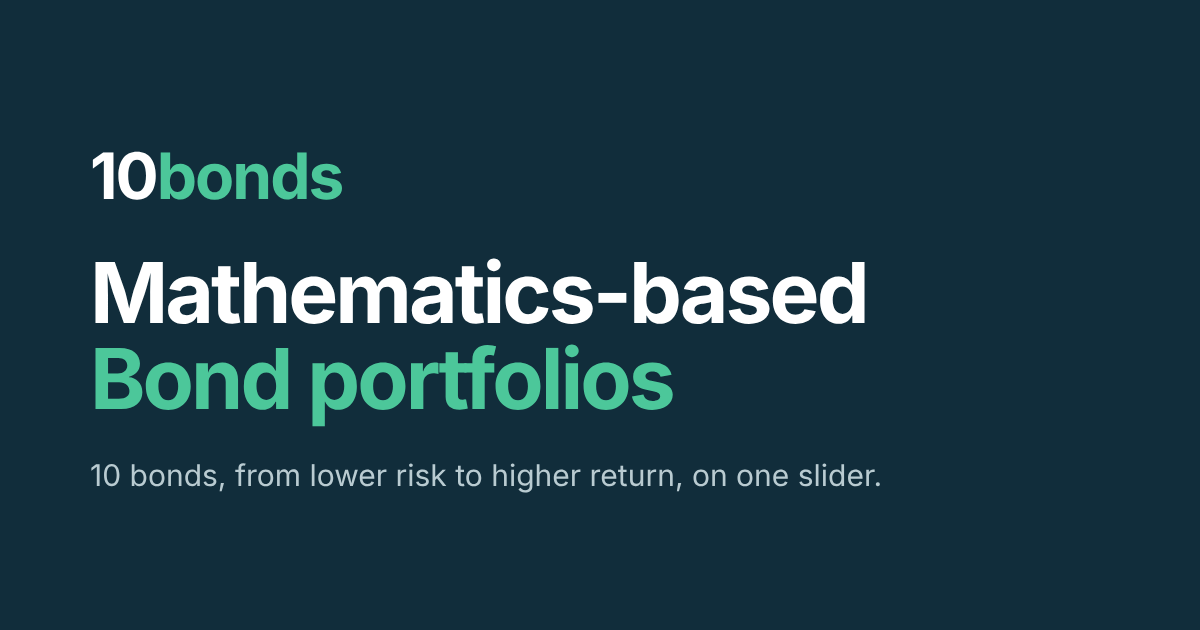
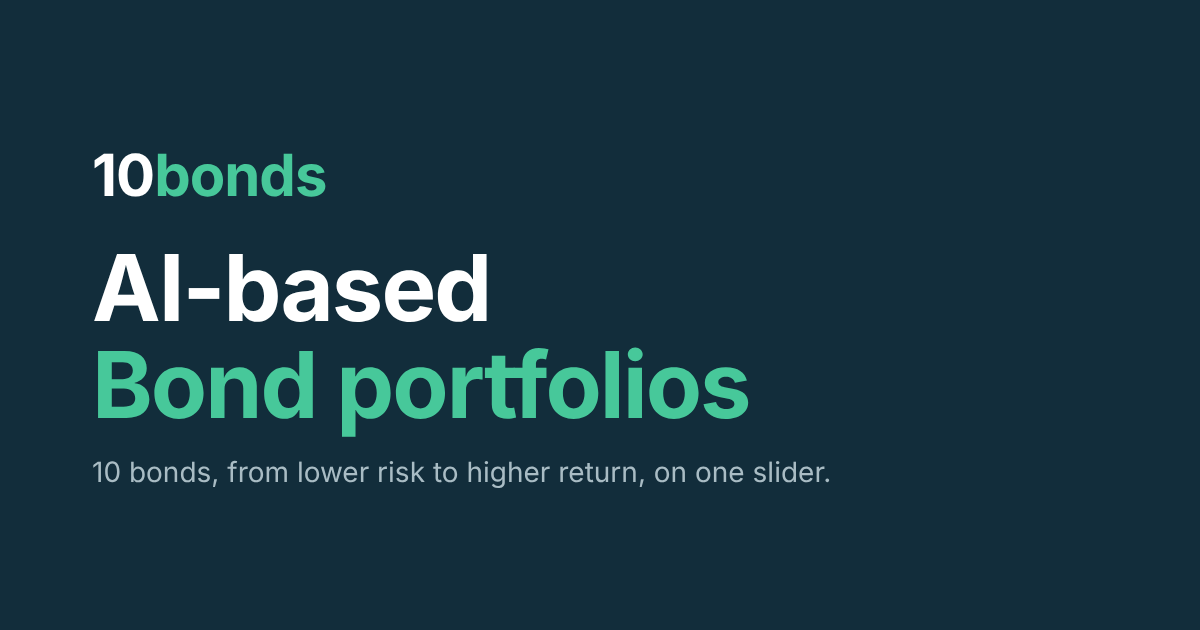
Headline back to AI-based (EN/IT/FR/DE, titles, share image); phone home page fits one screen with a test; keyboard-focusable scroll table; link check accepts the consent pop-up
Claude-Session: https://claude.ai/code/session_01TA3Ce3CrFSxgcecKeZ6A8W

diff --git a/lib/seo/pagesText.ts b/lib/seo/pagesText.ts
@@ -11,8 +11,8 @@ type Home = {
 
 export const HOME: Record<Locale, Home> = {
   it: {
-    title: "10BONDS · Portafogli obbligazionari su base matematica",
-    description: "Portafogli obbligazionari su base matematica: scegli durata e rendimento obiettivo e 10BONDS ti mostra le 10 più vicine ai tuoi criteri. Dati aggiornati ogni giorno.",
+    title: "10BONDS · Selezione di obbligazioni con l'AI",
+    description: "Selezione di obbligazioni con l'AI: scegli durata e rendimento obiettivo e 10BONDS ti mostra le 10 più vicine ai tuoi criteri. Dati aggiornati ogni giorno.",
     h1: "Confronta le obbligazioni per rendimento e rischio, in pochi secondi",
     lead: "Scegli una duration e un rendimento obiettivo: 10BONDS confronta migliaia di obbligazioni in euro, BTP e corporate, e ti mostra le 10 più vicine, una per emittente.",
     points: ["Rendimento a scadenza, duration e rischio in un'unica lista.", "BTP, titoli di Stato europei e obbligazioni societarie a confronto.", "Dati aggiornati ogni giorno, con la data sempre in vista."],
@@ -25,8 +25,8 @@ export const HOME: Record<Locale, Home> = {
     ], plansLink: "Dettagli dei piani",
   },
   fr: {
-    title: "10BONDS · Portefeuilles obligataires fondés sur les mathématiques",
-    description: "Portefeuilles obligataires fondés sur les mathématiques : choisissez un horizon et un rendement cible, 10BONDS affiche les 10 plus proches de vos critères. Données quotidiennes.",
+    title: "10BONDS · Sélection d'obligations par IA",
+    description: "Sélection d'obligations par IA : choisissez un horizon et un rendement cible, 10BONDS affiche les 10 plus proches de vos critères. Données quotidiennes.",
     h1: "Comparez les obligations selon leur rendement et leur risque",
     lead: "Choisissez une duration et un rendement cible : 10BONDS compare des milliers d'obligations en euros, OAT, emprunts d'État européens et obligations d'entreprise, et affiche les 10 plus proches, une par émetteur.",
     points: ["Rendement à l'échéance, duration et risque dans une seule liste.", "OAT, Bund, BTP et obligations d'entreprise comparés sur les mêmes critères.", "Données mises à jour chaque jour, toujours datées."],
@@ -39,8 +39,8 @@ export const HOME: Record<Locale, Home> = {
     ], plansLink: "Détail des offres",
   },
   de: {
-    title: "10BONDS · Mathematikbasierte Anleihe-Portfolios",
-    description: "Mathematikbasierte Anleihe-Portfolios: Wählen Sie Laufzeit und Zielrendite, 10BONDS zeigt die 10 Anleihen, die Ihren Kriterien am nächsten kommen. Täglich aktualisiert.",
+    title: "10BONDS · KI-gestützte Anleihenauswahl",
+    description: "KI-gestützte Anleihenauswahl: Wählen Sie Laufzeit und Zielrendite, 10BONDS zeigt die 10 Anleihen, die Ihren Kriterien am nächsten kommen. Täglich aktualisiert.",
     h1: "Finden und vergleichen Sie Anleihen nach Rendite und Risiko",
     lead: "Wählen Sie eine Duration und eine Zielrendite: 10BONDS vergleicht Tausende Euro-Anleihen, Bundesanleihen, europäische Staatsanleihen und Unternehmensanleihen, und zeigt die 10 passendsten, eine je Emittent.",
     points: ["Rendite bis Fälligkeit, Duration und Risiko in einer Liste.", "Bundesanleihen, OAT, BTP und Unternehmensanleihen nach denselben Kriterien.", "Täglich aktualisierte Daten, immer mit Datum."],

diff --git a/components/Landing.tsx b/components/Landing.tsx
@@ -61,8 +61,8 @@ export default function Landing({ lang, heading = true, onClose }: { lang: Finde
 
   // Phones: headline, card, buttons, one under the other. Desktop: headline and button on the left, card on the right.
   return (
-    <div data-testid="intro" className="landing finder-wide mx-auto max-w-[1400px] lg:max-w-none lg:!w-[min(calc(100vw_/_var(--z)_-_3rem),1320px)] text-[#132D3B] lg:flex lg:min-h-[calc(100vh_/_var(--z)_-_220px)] lg:items-center">
-      <section className="grid items-center gap-5 pt-2 lg:grid-cols-[0.9fr_1.1fr] lg:gap-x-12 lg:w-full lg:gap-y-8">
+    <div data-testid="intro" data-landing-fit className="landing finder-wide [@media(max-width:639px)]:flex [@media(max-width:639px)]:min-h-0 [@media(max-width:639px)]:flex-1 [@media(max-width:639px)]:flex-col mx-auto max-w-[1400px] lg:max-w-none lg:!w-[min(calc(100vw_/_var(--z)_-_3rem),1320px)] text-[#132D3B] lg:flex lg:min-h-[calc(100vh_/_var(--z)_-_220px)] lg:items-center">
+      <section className="grid items-center gap-5 pt-2 [@media(max-width:639px)]:flex [@media(max-width:639px)]:min-h-0 [@media(max-width:639px)]:flex-1 [@media(max-width:639px)]:flex-col [@media(max-width:639px)]:items-stretch [@media(max-width:639px)]:gap-3 lg:grid-cols-[0.9fr_1.1fr] lg:gap-x-12 lg:w-full lg:gap-y-8">
         <div className="min-w-0 break-words lg:col-start-1 lg:row-start-1 lg:self-end">
         <div className="mb-1 flex items-baseline justify-end gap-2 sm:hidden">
           {/* Phones: the paper link sits on the eyebrow line, so the page keeps its one-screen height. */}
@@ -72,9 +72,9 @@ export default function Landing({ lang, heading = true, onClose }: { lang: Finde
           <span className="block" style={{ color: NAVY }}>{t.h1a}</span>
           <span className="block" style={{ color: GREEN }}>{t.h1b}</span>
         </Title>
-        <p className="mt-2 text-[14px] leading-snug sm:text-[16px] lg:mt-4 lg:max-w-[680px] lg:text-[21px]" style={{ color: MUTE }} data-testid="landing-tagline">{t.tagline}</p>
+        <p className="mt-2 text-[14px] leading-snug [@media(max-width:639px)_and_(max-height:720px)]:hidden sm:text-[16px] lg:mt-4 lg:max-w-[680px] lg:text-[21px]" style={{ color: MUTE }} data-testid="landing-tagline">{t.tagline}</p>
         </div>
-        <div className="order-3 min-w-0 lg:order-none lg:col-start-2 lg:row-span-2 lg:row-start-1">
+        <div className="order-3 min-w-0 [@media(max-width:639px)]:flex [@media(max-width:639px)]:min-h-0 [@media(max-width:639px)]:flex-1 [@media(max-width:639px)]:flex-col lg:order-none lg:col-start-2 lg:row-span-2 lg:row-start-1">
           {/* ETF vs AI first, then one bond's curve, the reason to sign up (the owner, 24/10/2026). */}
           <LandingCarousel t={t} slides={[
             ...(showBench ? [{ key: "compare", node: LANDING_SNAPSHOT.verified ? <Comparison t={t} lang={lang} num={num} bench={bench} /> : (

diff --git a/lib/landingText.ts b/lib/landingText.ts
@@ -28,7 +28,7 @@ const en = {
   ctaBtn: "Explore the tool",
   sticky: "Open the finder",
   kicker: "Model-selected bonds",
-  h1a: "Mathematics-based",
+  h1a: "AI-based",
   h1b: "Bond portfolios",
   lead: "An illustration of how a model portfolio of 10 bonds can reach a higher modeled return than a hand-picked one, at the same duration and modeled risk.",
   cta: "Find Pareto efficient portfolio",
@@ -129,7 +129,7 @@ const it: LandingText = {
   sticky: "Apri lo strumento",
   kicker: "Obbligazioni selezionate dal modello",
   h1a: "Portafogli obbligazionari",
-  h1b: "basati sulla matematica",
+  h1b: "basati sull'AI",
   lead: "Un esempio di come un portafoglio del modello di 10 obbligazioni possa avere un rendimento stimato più alto di uno scelto a mano, a parità di durata e di rischio stimato.",
   cta: "Trova il portafoglio efficiente di Pareto",
   signUp: "Registrati",
@@ -224,7 +224,7 @@ const fr: LandingText = {
   sticky: "Ouvrir l'outil",
   kicker: "Obligations sélectionnées par le modèle",
   h1a: "Portefeuilles obligataires",
-  h1b: "fondés sur les mathématiques",
+  h1b: "basés sur l'IA",
   lead: "Une illustration : un portefeuille du modèle de 10 obligations peut atteindre un rendement modélisé plus élevé qu'un portefeuille choisi à la main, à durée et risque modélisé égaux.",
   cta: "Trouver le portefeuille efficient de Pareto",
   signUp: "S'inscrire",
@@ -318,7 +318,7 @@ const de: LandingText = {
   ctaBtn: "Das Tool entdecken",
   sticky: "Tool öffnen",
   kicker: "Vom Modell ausgewählte Anleihen",
-  h1a: "Mathematikbasierte",
+  h1a: "KI-basierte",
   h1b: "Anleihe-Portfolios",
   lead: "Zur Illustration: Ein Modell-Portfolio aus 10 Anleihen kann bei gleicher Laufzeit und gleichem Modell-Risiko mehr modellierte Rendite erzielen als ein handverlesenes.",
   cta: "Pareto-effizientes Portfolio finden",

diff --git a/app/layout.tsx b/app/layout.tsx
@@ -30,15 +30,15 @@ export const metadata: Metadata = {
   metadataBase: new URL(SITE_URL),
   // Bing Webmaster Tools site verification (the owner, 19 Oct 2026). Public by design, not a secret.
   verification: { other: { "msvalidate.01": "ADA17531835A822BB9A6870BCE68531B" } },
-  title: "10BONDS · Mathematics-based bond portfolios",
-  description: "Mathematics-based bond portfolios: pick a duration and a desired return, and 10BONDS shows 10 euro bonds that match. Data updated daily.",
+  title: "10BONDS · AI-powered bond selection",
+  description: "AI-powered bond selection: pick a duration and a desired return, and 10BONDS shows 10 euro bonds that match. Data updated daily.",
   openGraph: { images: OG_IMAGES,
-    title: "10BONDS · Mathematics-based bond portfolios",
-    description: "Mathematics-based bond portfolios: pick a duration and a desired return, and get 10 euro bonds that match.",
+    title: "10BONDS · AI-powered bond selection",
+    description: "AI-powered bond selection: pick a duration and a desired return, and get 10 euro bonds that match.",
     type: "website",
     siteName: "10BONDS",
   },
-  twitter: { card: "summary_large_image", images: ["/og.png"], title: "10BONDS · Mathematics-based bond portfolios", description: "Mathematics-based bond portfolios: pick a duration and a desired return, and get 10 euro bonds that match." },
+  twitter: { card: "summary_large_image", images: ["/og.png"], title: "10BONDS · AI-powered bond selection", description: "AI-powered bond selection: pick a duration and a desired return, and get 10 euro bonds that match." },
 };
 
 export const viewport: Viewport = { width: "device-width", initialScale: 1, themeColor: "#f5f5f7" };

diff --git a/app/globals.css b/app/globals.css
@@ -130,3 +130,20 @@ html:has(.report) body { overflow-x: clip; }
   .heat-mini [data-testid="heat-cell"] { font-size: 0 !important; }
   .heat-mini > div > div:last-child { display: none; }
 }
+
+/* Phones (the owner, 29/10/2026): the landing page fits one screen with no scrolling. The page is exactly one dynamic viewport tall,
+   the card takes whatever height is left under the headline and button. Tested at 390x844, 375x667, 414x896 (e2e/landing-fit). */
+@media (max-width: 639px) {
+  body:has([data-landing-fit]) { height: 100vh; height: 100dvh; min-height: 0; }
+  body:has([data-landing-fit]) > main { display: flex; flex: 1 1 auto; flex-direction: column; min-height: 0; padding-top: 0.25rem; padding-bottom: 0.25rem; width: 100%; }
+  body:has([data-landing-fit]) > footer { padding-top: 0.5rem; padding-bottom: 0.5rem; }
+  body:has([data-landing-fit]) [data-testid="intro-skip"] { padding-top: 0.75rem; padding-bottom: 0.75rem; }
+}
+/* Short phones (iPhone SE and the like, 667 px or less): tighter spacing so the same one screen still fits. */
+@media (max-width: 639px) and (max-height: 720px) {
+  body:has([data-landing-fit]) > main { padding-top: 0.25rem; padding-bottom: 0.25rem; }
+  body:has([data-landing-fit]) > footer { padding-top: 0.375rem; padding-bottom: 0.375rem; }
+  body:has([data-landing-fit]) [data-landing-fit] h1 { font-size: 24px !important; }
+  body:has([data-landing-fit]) [data-testid="intro-skip"] { padding-top: 0.625rem; padding-bottom: 0.625rem; }
+  body:has([data-landing-fit]) [data-testid="landing-carousel"] { min-height: 110px; }
+}

diff --git a/components/LandingCarousel.tsx b/components/LandingCarousel.tsx
@@ -17,7 +17,7 @@ export const actionTitle = ([long, short]: readonly [string, string] | string[])
 
 /** One card of the landing carousel: same white card as the comparison, filling the carousel's fixed height. */
 export function SlideCard({ title, children, href, long }: { title: ReactNode; children: ReactNode; href?: string; long?: boolean }) {
-  const box = "flex h-full flex-col rounded-[18px] border border-[#e3ebe7] bg-white p-4 shadow-[0_8px_30px_rgba(17,45,59,0.07)] lg:p-5";
+  const box = "flex h-full flex-col [@media(max-width:639px)]:overflow-hidden rounded-[18px] border border-[#e3ebe7] bg-white p-4 shadow-[0_8px_30px_rgba(17,45,59,0.07)] lg:p-5";
   // With `href` the whole card opens that page (the Risk assessment pages, PR #188).
   if (href) return <Link href={href} className={`${box} transition hover:border-[#cfe6da]`} data-testid="slide-link">{inner(title, children, long)}</Link>;
   return <div className={box}>{inner(title, children, long)}</div>;
@@ -56,7 +56,7 @@ export default function LandingCarousel({ t, slides }: { t: LandingText; slides:
 
   return (
     <div
-      className="relative flex min-w-0 touch-pan-y flex-col min-h-[max(360px,calc(100svh_-_320px))] lg:h-[min(620px,calc(100vh_/_var(--z)_-_205px))]"
+      className="relative flex min-w-0 touch-pan-y flex-col [@media(max-width:639px)]:min-h-[150px] [@media(max-width:639px)]:flex-1 sm:min-h-[max(360px,calc(100svh_-_320px))] lg:h-[min(620px,calc(100vh_/_var(--z)_-_205px))]"
       role="region"
       aria-roledescription="carousel"
       aria-label={t.carousel.label}

diff --git a/components/seo/Seo.tsx b/components/seo/Seo.tsx
@@ -55,7 +55,7 @@ export function ToolCta({ locale }: { locale: Locale | "en" }) {
 function Table({ locale, rows, curve, admin }: { locale: Locale | "en"; rows: ComparisonRow[]; curve?: boolean; admin: boolean }) {
   const t = T[locale];
   return (
-    <div className="overflow-x-auto">
+    <div className="overflow-x-auto" tabIndex={0}>
       <table className="w-full min-w-[22rem] text-left text-[14px] sm:text-[15px]">
         <thead className="text-xs text-mute">
           <tr>

diff --git a/lib/ogImage.ts b/lib/ogImage.ts
@@ -1,2 +1,2 @@
 // Share image for every page's Open Graph and Twitter card: 1200 x 630, stored in public/og.png (Livio, 29/10/2026).
-export const OG_IMAGES = [{ url: "/og.png", width: 1200, height: 630, alt: "10bonds: Mathematics-based bond portfolios" }];
+export const OG_IMAGES = [{ url: "/og.png", width: 1200, height: 630, alt: "10bonds: bond portfolios" }];
